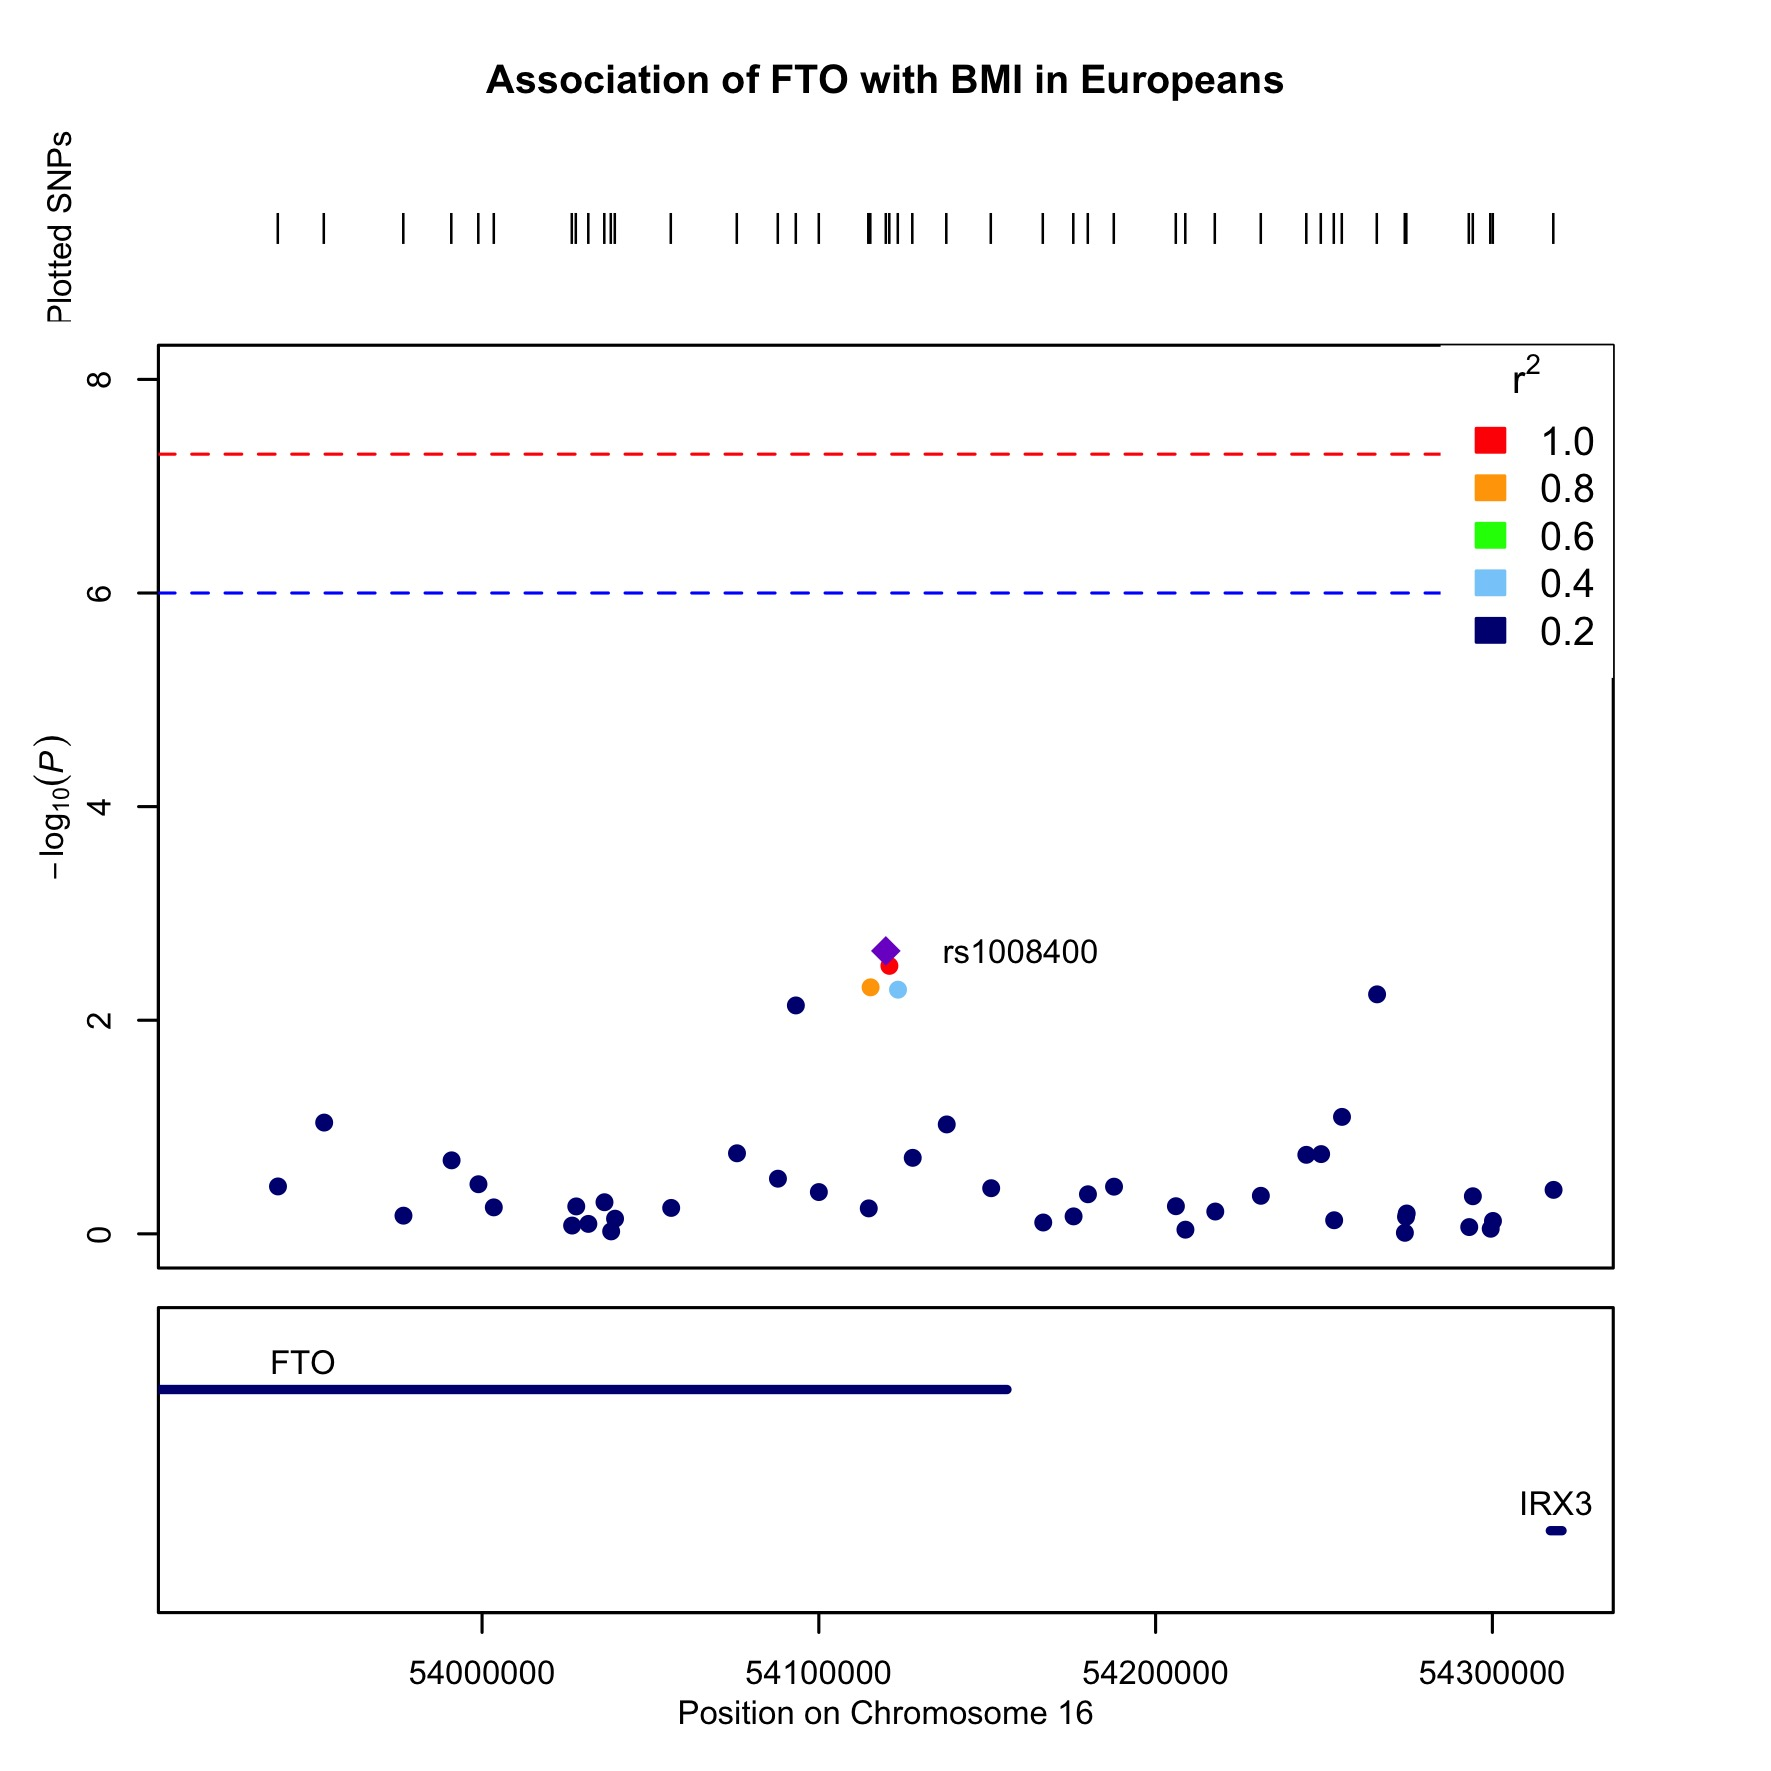
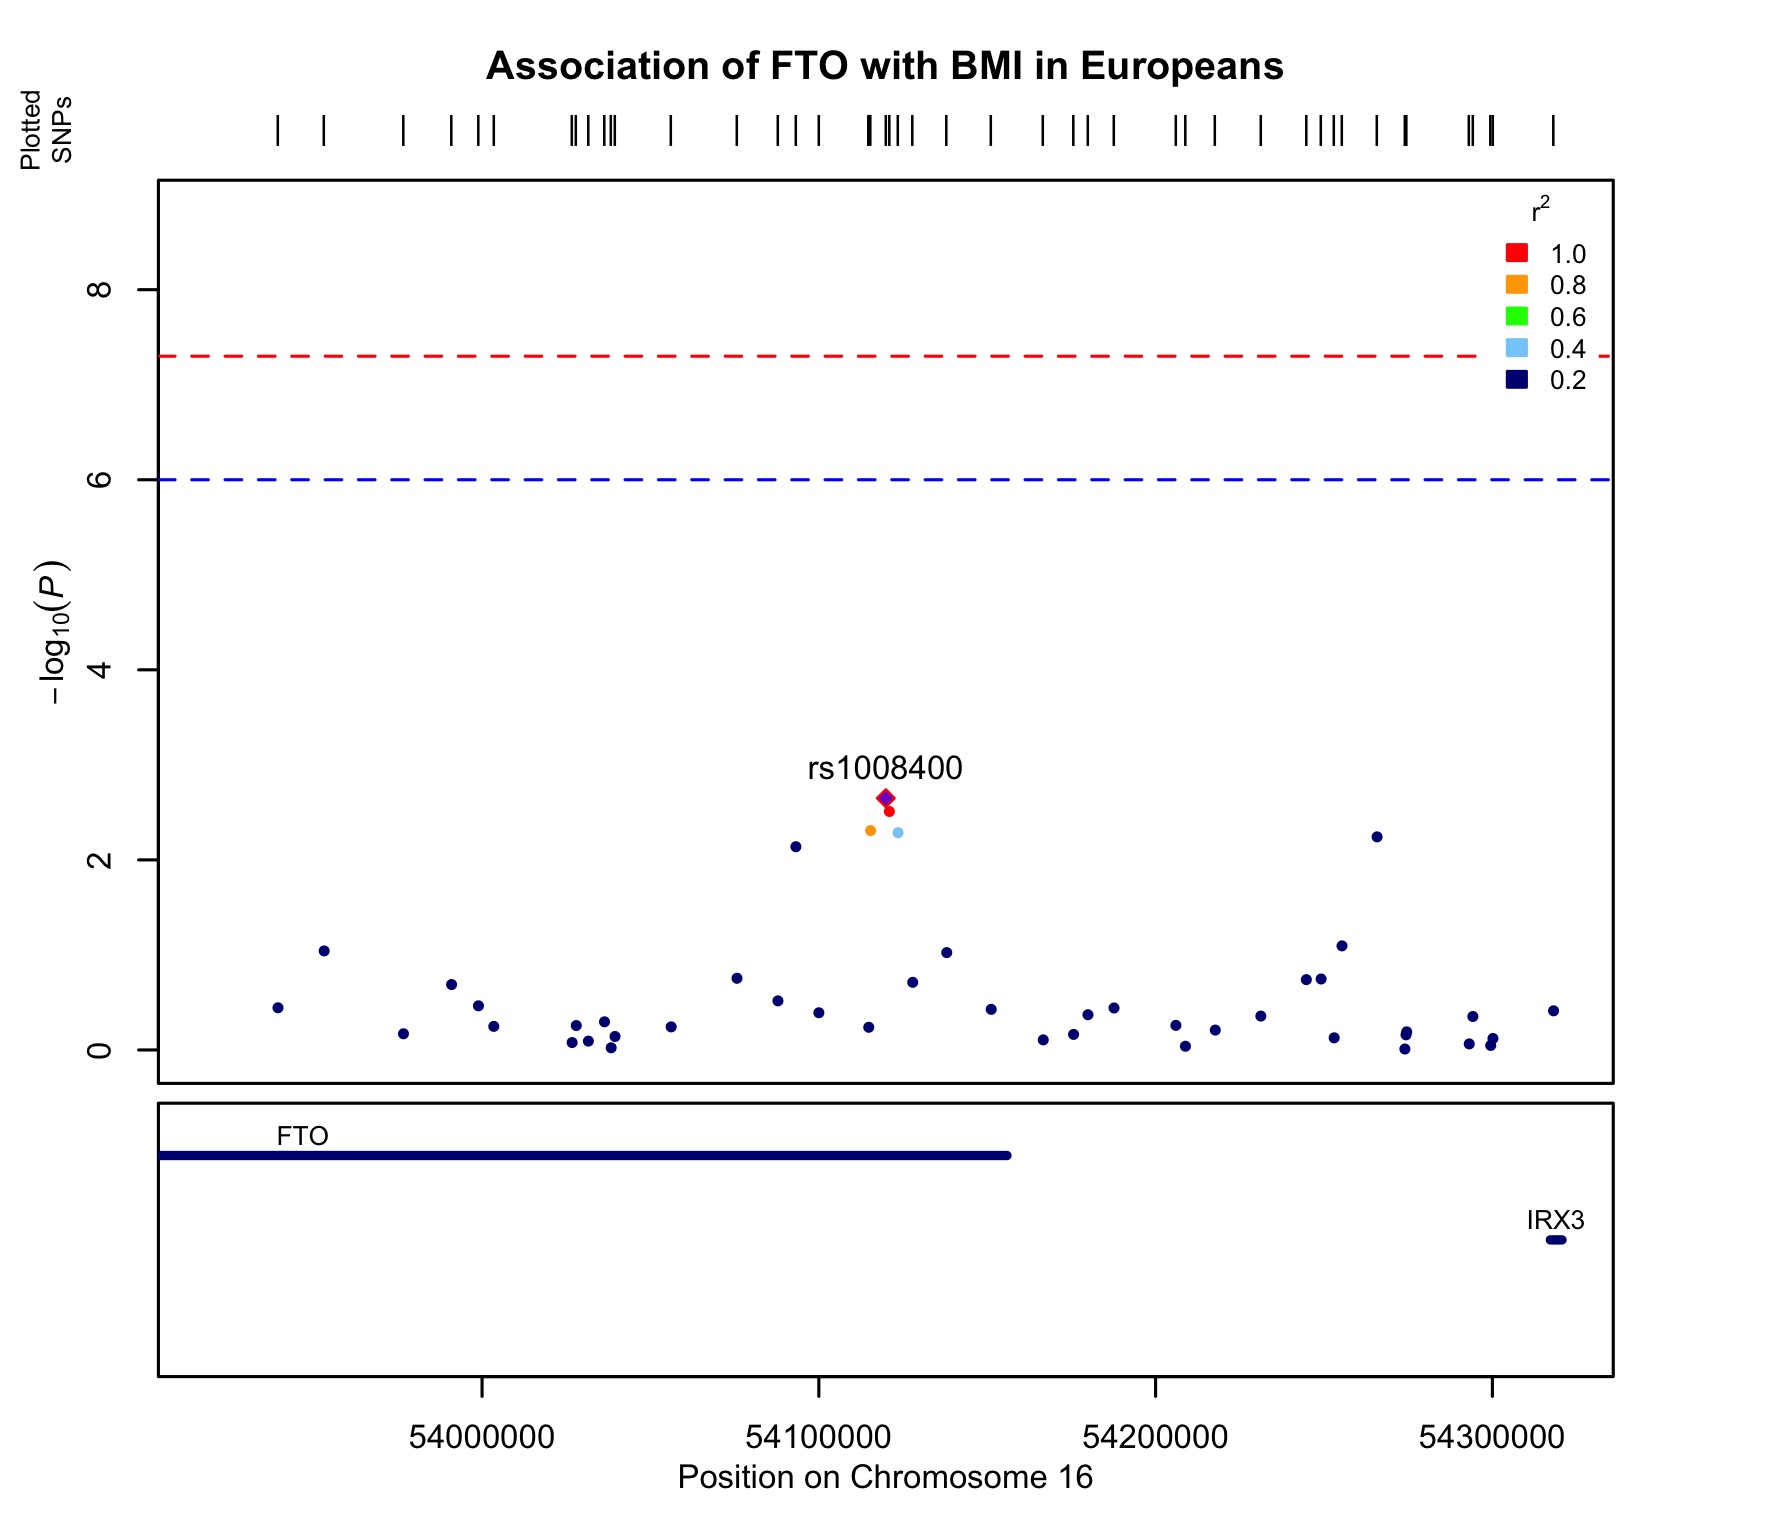
edited locus_zoom.R to actually plot SNPs with no LD info and split genes over 3 lines. Edited README.md to match updated functionality.

diff --git a/README.md b/README.md
@@ -6,7 +6,8 @@ This script creates an R function to create regional Manhattan plots with points
   - Example.assoc.linear: A file of PLINK association results (only the SNP, BP, and P columns are essential)
   - Example.ld: A file of the LD between the SNP to be labelled (top-hit / SNP of interest) and the SNPs included in the PLINK results file
     - this file MUST have a column called "SNP_B" (containing a list of all the SNPs in the results file) and a column called "R2" (containing the R^2 LD value of each SNP). The SNP names MUST match the names in the SNP column of the results file.
- - Example.genes: A file of the genes within the region for use in the annotation step. This file must have 3 columns, Gene, Start, End. The UCSC_GRCh37_Genes_UniqueList.txt file can be used as this file.
+    - this file can be created for you by the locus_zoom.R script IF you have access to the Biochem servers and have rsIDs in your results file
+  - Example.genes: A file of the genes within the region for use in the annotation step. This file must have 3 columns, Gene, Start, End. The UCSC_GRCh37_Genes_UniqueList.txt file can be used as this file.
 
 ### Example locus.zoom run:
 
@@ -20,30 +21,32 @@ UCSC_GRCh37_Genes_UniqueList.txt <- read.delim("UCSC_GRCh37_Genes_UniqueList.txt
 source("functions/locus_zoom.R")
 
 # create a LocusZoom-like plot
-locus.zoom(CHR = Example.assoc.linear$CHR,                                 # the chromosome column in the results file 
-           BP = Example.assoc.linear$BP,                                   # the position column in the results file
-           P = Example.assoc.linear$P,                                     # the p-value column in the results file
-           SNP.List = Example.assoc.linear$SNP,                            # the SNP names column in the resuls file
-           SNP = "rs1008400",                                              # the SNP to be labelled in the plot
-           LD.File = Example.ld,                                           # a file with LD values relevant to the SNP specified above
-           Genes.Data = UCSC_GRCh37_Genes_UniqueList.txt,                  # a file of all the genes in the region / genome
-           Plot.Title = "Association of FTO with BMI in Europeans",        # the plot title
-           File.Name = "Example.jpg")                                      # the name of the file to save the plot to
+locus.zoom(data = Example.assoc.linear,                                    # a data.frame (or a list of data.frames) with the columns CHR, BP, SNP, and P
+           snp = "rs1008400",                                              # the SNP to be labelled in the plot
+           ld.file = Example.ld,                                           # a file with LD values relevant to the SNP specified above
+           genes.data = UCSC_GRCh37_Genes_UniqueList.txt,                  # a file of all the genes in the region / genome
+           plot.title = "Association of FTO with BMI in Europeans",        # the plot title
+           file.name = "Example.jpg")                                      # the name of the file to save the plot to
 ```
 
-One of SNP, Gene, or Region must be specified to create the plot:
+One of `snp`, `gene`, or `region` must be specified to create the plot:
 
- - SNP: specify the SNP to be annotated
- - Gene: specify the Gene to make the plot around (you will need to find out which SNP is going to be labelled and make an LD file relevant to that)
- - Region: specify the chromsome region you want to plot (must be specified as `c(chr, start, end)`
+ - snp: specify the SNP to be annotated
+ - gene: specify the Gene to make the plot around
+ - region: specify the chromsome region you want to plot (must be specified as `c(chr, start, end)`
 
 
 Other oppitional conditions are also available:
 
- - basepairs: specify how far either side of the SNP, Gene, or Region you want the plot to extend (defaults to 200000)
- - NonCoding: when using the UCSC gene list you can specify whether you want to plot the non-coding genes (defaults to FALSE)
- - Nominal: specify the nominal significance level to draw on the plot (in -log[10](_P_), default is 6 or _P_ = 1e-6)
- - Significant: specify the significance level to draw on the plot (in -log[10](_P_), default is 7.3 or _P_ = 5e-8) 
- - SecondarySNP: provide the ID of a second SNP to be labelled (will also include an arrow)
- 
+ - `offset_bp`: specify how far either side of the `snp`, `gene`, or `region` you want the plot to extend (defaults to 200000)
+ - `non-coding`: when using the UCSC gene list you can specify whether you want to plot the non-coding genes (defaults to FALSE)
+ - `nominal`: specify the nominal significance level to draw on the plot (in -log[10](_P_), default is 6 or _P_ = 1e-6)
+ - `significant`: specify the significance level to draw on the plot (in -log[10](_P_), default is 7.3 or _P_ = 5e-8) 
+ - `secondary.snp`: provide the list of secondary SNP IDs (must match IDs in results file) to be highlighted on the plot
+ - `secondary.label`: specify whether to label the secondary SNPs on the plot (defaults to FALSE)
+ - `population`: specify the 1000 genomes population to use when calculating LD if ld.file = NULL (defaults to "EUR", options are "AFR", "AMR", "EAS", "EUR", and "SAS")
+ - `sig.type`: specify whether the y-axis should be labelled as -log10(P) or -log10(BF) (defaults to "P", options are "P" or "BF")
+ - `nplots`: specify whether multiple results plots will be saved into your jpeg file (e.g. plot two GWAS results one above another; defaults to FALSE)
+ - `ignore.lead`: specify whether to ignore the SNP with the smallest P and use the SNP specified by 'snp' to centre the plot (defaults to FALSE)
+ - `rsid.check`: specify whether to check if the SNPs are labelled with rsIDs - should only matter if script is calculating LD for you (defaults to TRUE)
  
